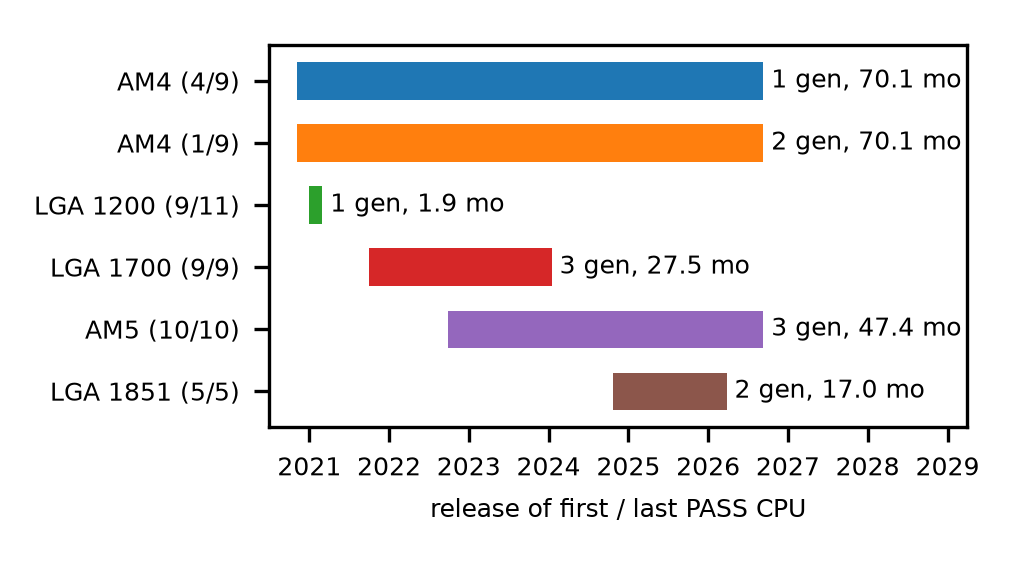
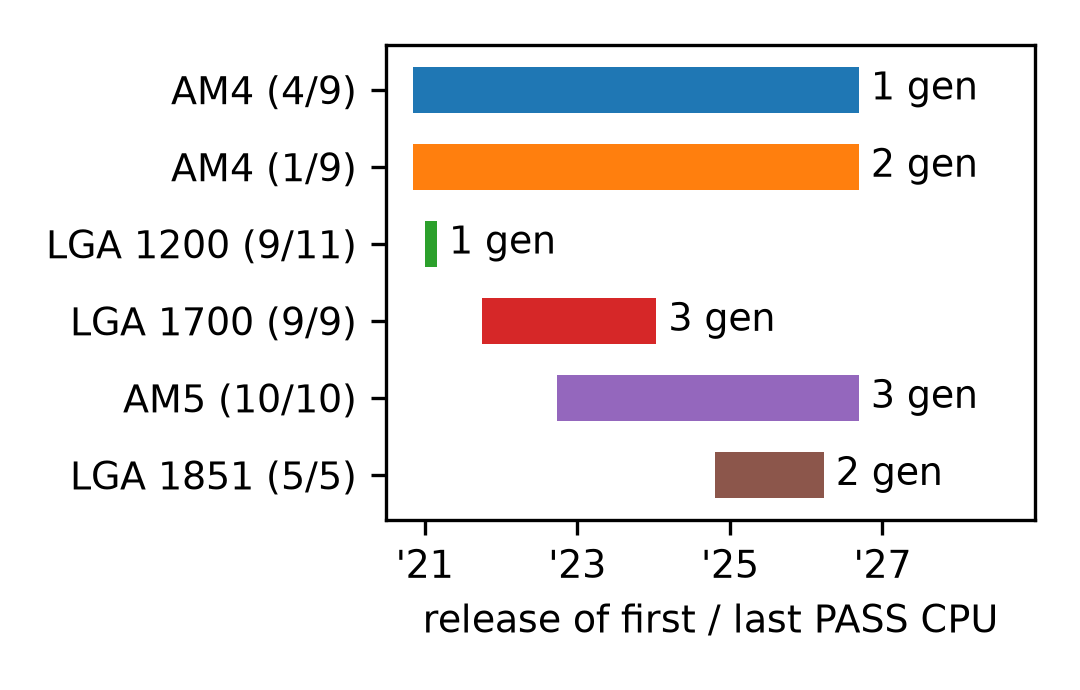
fix: 9pt text in upgrade figure for paper form

Changed region(s): [[0.0304, 0.0596, 0.9725, 0.8351], [0.3951, 0.8649, 0.9422, 0.9246]]

diff --git a/src/pccompat/analysis.py b/src/pccompat/analysis.py
@@ -21,6 +21,9 @@ from pccompat.config import PROJECT_ROOT, load_config
 OUT = PROJECT_ROOT / "data" / "out"
 AN = OUT / "analysis"
 FIG = OUT / "figures"
+# 논문 2단 폭(91.5mm = 3.6in)에 1:1로 넣는 그림. 양식 규정(글자 9pt 이상)을 그림 안 글자에도 맞춘다.
+PAPER_FIG_WIDTH_IN = 3.6
+PAPER_FIG_FONT_PT = 9
 
 
 def months(start: str, end: str) -> pd.DatetimeIndex:
@@ -195,16 +198,18 @@ def upgrade_groups(upg: pd.DataFrame) -> pd.DataFrame:
 
 def _upgrade_figure(plt, upg: pd.DataFrame) -> None:
     g = upgrade_groups(upg)
-    fig, ax = plt.subplots(figsize=(3.4, 1.9))
+    fig, ax = plt.subplots(figsize=(PAPER_FIG_WIDTH_IN, 2.3))
     for i, r in g.iterrows():
         ax.barh(i, r["last_cpu"] - r["first_cpu"], left=r["first_cpu"], height=0.6, color=f"C{i}")
-        ax.text(r["last_cpu"], i, f" {int(r['n_cpu_families_pass'])} gen, {r['span_months']:.1f} mo",
-                va="center", fontsize=6)
+        ax.text(r["last_cpu"], i, f" {int(r['n_cpu_families_pass'])} gen",
+                va="center", fontsize=PAPER_FIG_FONT_PT)
     labels = [f"{r.family} ({r.n_chipsets}/{r.n_total})" for r in g.itertuples()]
-    ax.set_yticks(range(len(g)), labels, fontsize=6); ax.invert_yaxis()
-    ax.tick_params(axis="x", labelsize=6)
-    ax.set_xlim(pd.Timestamp("2020-07-01"), pd.Timestamp("2029-03-31"))
-    ax.set_xlabel("release of first / last PASS CPU", fontsize=6)
+    ax.set_yticks(range(len(g)), labels, fontsize=PAPER_FIG_FONT_PT); ax.invert_yaxis()
+    ax.tick_params(axis="x", labelsize=PAPER_FIG_FONT_PT)
+    ax.set_xlim(pd.Timestamp("2020-07-01"), pd.Timestamp("2028-12-31"))
+    years = range(2021, 2029, 2)  # 9pt에서 매년 눈금은 겹친다
+    ax.set_xticks([pd.Timestamp(f"{y}-01-01") for y in years], [f"'{y % 100:02d}" for y in years])
+    ax.set_xlabel("release of first / last PASS CPU", fontsize=PAPER_FIG_FONT_PT)
     fig.tight_layout(); fig.savefig(FIG / "b_upgrade.png", dpi=300); plt.close(fig)
 
 
